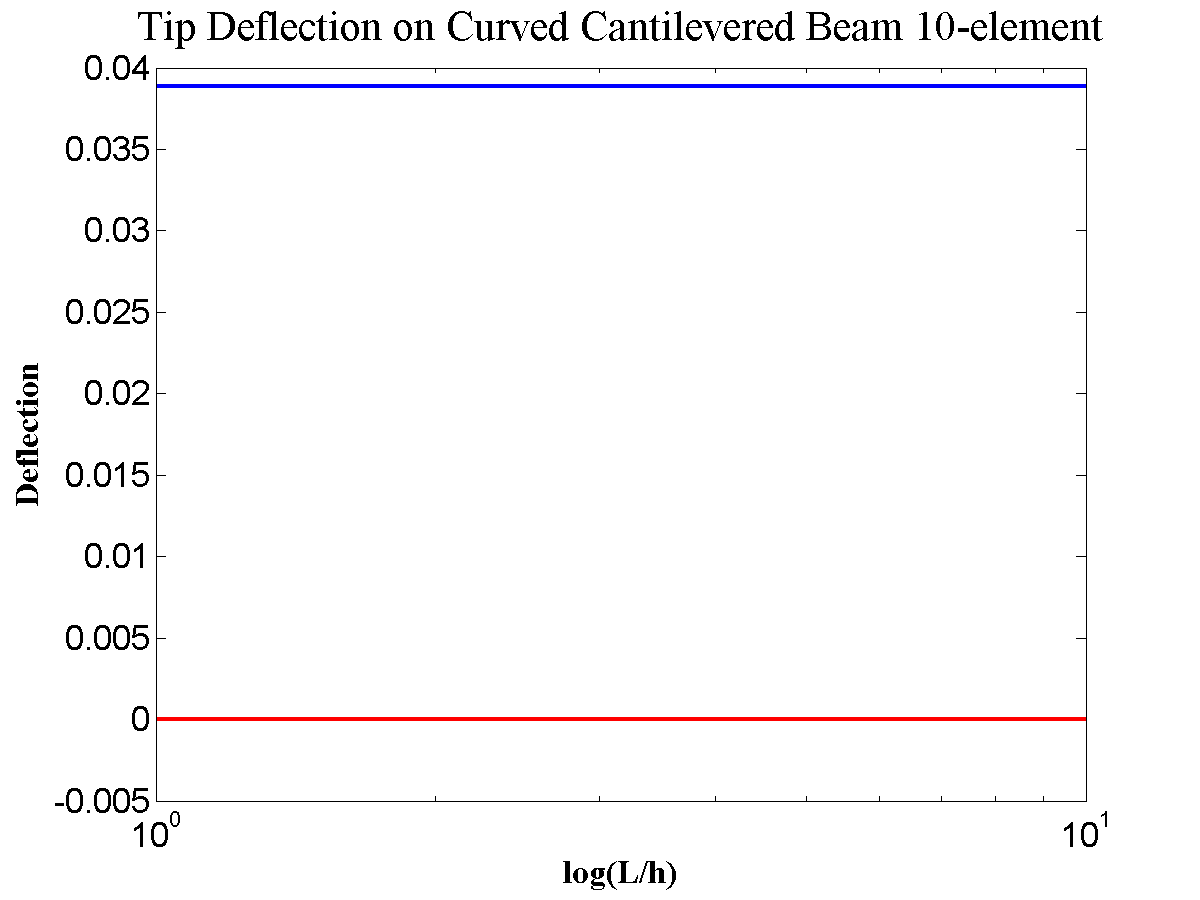
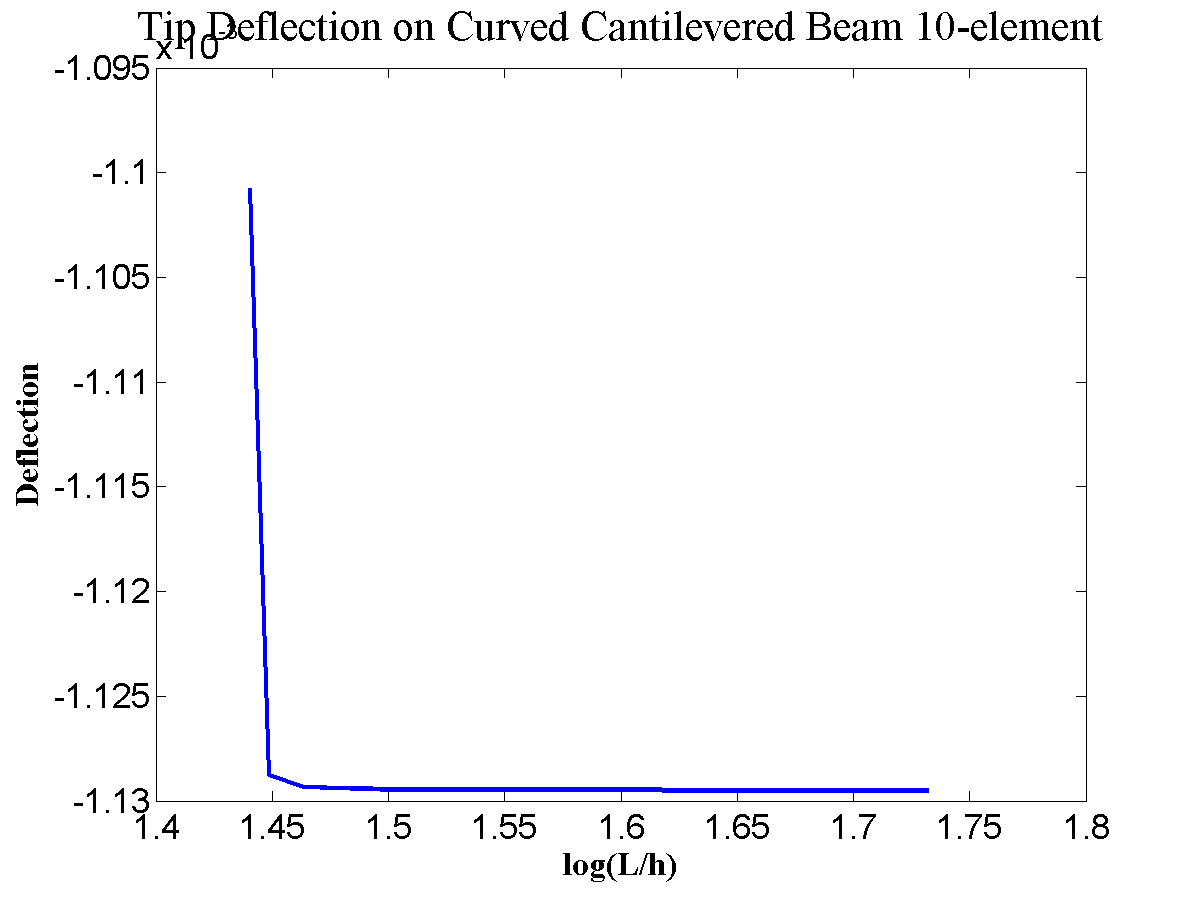
Next

diff --git a/Problem4.m b/Problem4.m
@@ -11,33 +11,34 @@ end
 
 %% Parameters
 theta_total=90;
-n_el = 10;
-number = n_el;
-n_nodes = n_el+1;
 radius = 1;
-EA_const = 1e9;
-EI_const = 1e9;
 
 %% Prepadding for Efficiency
 % X contains all node element positions in (x,y,z) format
-EA = 60*10^6*ones(1,10)';
-EI = 680*10^6*ones(1,10)';
-kGA = 11603*6*1*ones(1,10)';
-q = zeros(10,1);
 
-Q = zeros(30,1);
-Q(29,1) = -100;
+n_el_arr = 2:10:50;
 
+
+%% Start For Loop
+for iter = 1:size(n_el_arr,2)
+n_el = n_el_arr(iter); 
+number = n_el;
+n_nodes = n_el +1;
+EA = 60*10^6*ones(1,n_el)';
+EI = 680*10^6*ones(1,n_el)';
+kGA = 11603*6*1*ones(1,n_el)';
+
+
+q = zeros(n_el,1);
+Q = zeros(3*n_el,1);
+Q(3*n_el-1,1) = -100;
 X = zeros(n_nodes,3);
 CNX = zeros(2,n_el);
 
-
-
 %% Generate CNX
-
-for iter = 1:n_el
-    CNX(1,iter) = iter;
-    CNX(2,iter) = iter+1;
+for i = 1:n_el
+    CNX(1,i) = i;
+    CNX(2,i) = i+1;
 end
 CNX;
 
@@ -58,55 +59,49 @@ for i = 1:n_nodes
    end
 end
 
-
 %% Generate X
+
 ThetaArray = linspace(0,theta_total*pi/180,n_nodes);
 
-for iter = 1:n_nodes
-    X(iter, 1) = -radius*cos(ThetaArray(iter));
-    X(iter, 2) = radius*sin(ThetaArray(iter));
-    X(iter, 3) = pi/2-ThetaArray(iter);
+for ind = 1:n_nodes
+    X(ind, 1) = -radius*cos(ThetaArray(ind));
+    X(ind, 2) = radius*sin(ThetaArray(ind));
+    X(ind, 3) = pi/2-ThetaArray(ind);
 end
 X = transpose(X);
 
-%% Running loops
-p1 = zeros(2,number);
-for iter = 1:number
-    if iter == 1 || iter==number
-        l = sqrt(EI(1)/(kGA(1)*iter))
-    else
-        l = sqrt(EI(1)/(kGA(1)*iter));
-    end
-    
-     dt = zeros(size(EQN));
-     [Wt, Rt, Kt] = beamTimoshenkoAssembly(EA,EI,kGA,CNX, EQN,X,dt,q);
-     dt = Kt\(Q);
-     
-     
-     p1(1,iter) = iter;
-     p1(2,iter) = dt(29);
+%% Run Loops
+
+l = sqrt((X(1,1)-X(2,1))^2+(X(1,2)-X(2,2))^2);
+d = zeros(size(EQN));
+[Wt, Rt, Kt] = beamTimoshenkoAssembly(EA,EI,kGA,CNX, EQN,X,d,q);
+d = Kt\(Q);
+p1(1,iter) = l; %plotting against element length
+p1(2,iter) = d(3*n_el-1); %Tip Transverse Deflection
+p1(3,iter) = d(3*n_el); %Tip Rotation
 end
 
-p2 = zeros(2,number);
-for iter = 1:number
-    
-    l = sqrt(EI(1)/(kGA(1)*iter));
-    
-    d = zeros(size(EQN));
-    [W, R, K]= beamAssembly( EA, EI, CNX, EQN, X, d, q);
-    d = K\Q;
-    
-     p2(1,iter) = iter;
-     p2(2,iter) = d(29);
-    
-    
-end
+%% Running loops
+
+
+% p2 = zeros(2,number);
+% for iter = 1:number
+%     
+%     l = sqrt(EI(1)/(kGA(1)*iter));
+%     
+%     d = zeros(size(EQN));
+%     [W, R, K]= beamAssembly( EA, EI, CNX, EQN, X, d, q);
+%     d = K\Q;
+%     
+%      p2(1,iter) = iter;
+%      p2(2,iter) = d(29);
+%     
+%     
+% end
 
 %% Plotting
 figure(5)
-semilogx(fliplr(p1(1,:)),p1(2,:)+.04,'LineWidth',2)
-hold on
-semilogx(fliplr(p2(1,:)),p2(2,:),'r','LineWidth',2)
+plot(fliplr(p1(1,:)),p1(2,:),'LineWidth',2)
 xlabel('log(L/h)','FontWeight', 'bold', 'FontSize', 16, 'FontName', 'Times New Roman')
 ylabel('Deflection','FontWeight', 'bold', 'FontSize', 16, 'FontName', 'Times New Roman')
 title('Tip Deflection on Curved Cantilevered Beam 10-element', 'FontSize', 20, 'FontName', 'Times New Roman');
@@ -114,14 +109,14 @@ title('Tip Deflection on Curved Cantilevered Beam 10-element', 'FontSize', 20, '
 set(gca, 'FontSize', 16);
 print('-dpng',[pwd,'\plots\Figure_5 ','Tip Deflection on Curved Cantilevered Beam 10-element','.png']);
 
-figure(6)
-diff = -fliplr(p1(2,:)) + fliplr(p2(2,:))
-semilogx((p1(1,:)),diff,'LineWidth',2)
-xlabel('log(L/h)','FontWeight', 'bold', 'FontSize', 16, 'FontName', 'Times New Roman')
-ylabel('Deflection Difference','FontWeight', 'bold', 'FontSize', 16, 'FontName', 'Times New Roman')
-title('Tip Deflection Difference on Curved Cantilevered Beam 10-element', 'FontSize', 20, 'FontName', 'Times New Roman');
-%grid on;
-set(gca, 'FontSize', 16);
-print('-dpng',[pwd,'\plots\Figure_6 ','Tip Deflection Difference on Curved Cantilevered Beam 10-element','.png']);
-
-
+% figure(6)
+% diff = -fliplr(p1(2,:)) + fliplr(p2(2,:))
+% semilogx((p1(1,:)),diff,'LineWidth',2)
+% xlabel('log(L/h)','FontWeight', 'bold', 'FontSize', 16, 'FontName', 'Times New Roman')
+% ylabel('Deflection Difference','FontWeight', 'bold', 'FontSize', 16, 'FontName', 'Times New Roman')
+% title('Tip Deflection Difference on Curved Cantilevered Beam 10-element', 'FontSize', 20, 'FontName', 'Times New Roman');
+% %grid on;
+% set(gca, 'FontSize', 16);
+% print('-dpng',[pwd,'\plots\Figure_6 ','Tip Deflection Difference on Curved Cantilevered Beam 10-element','.png']);
+% 
+% 
